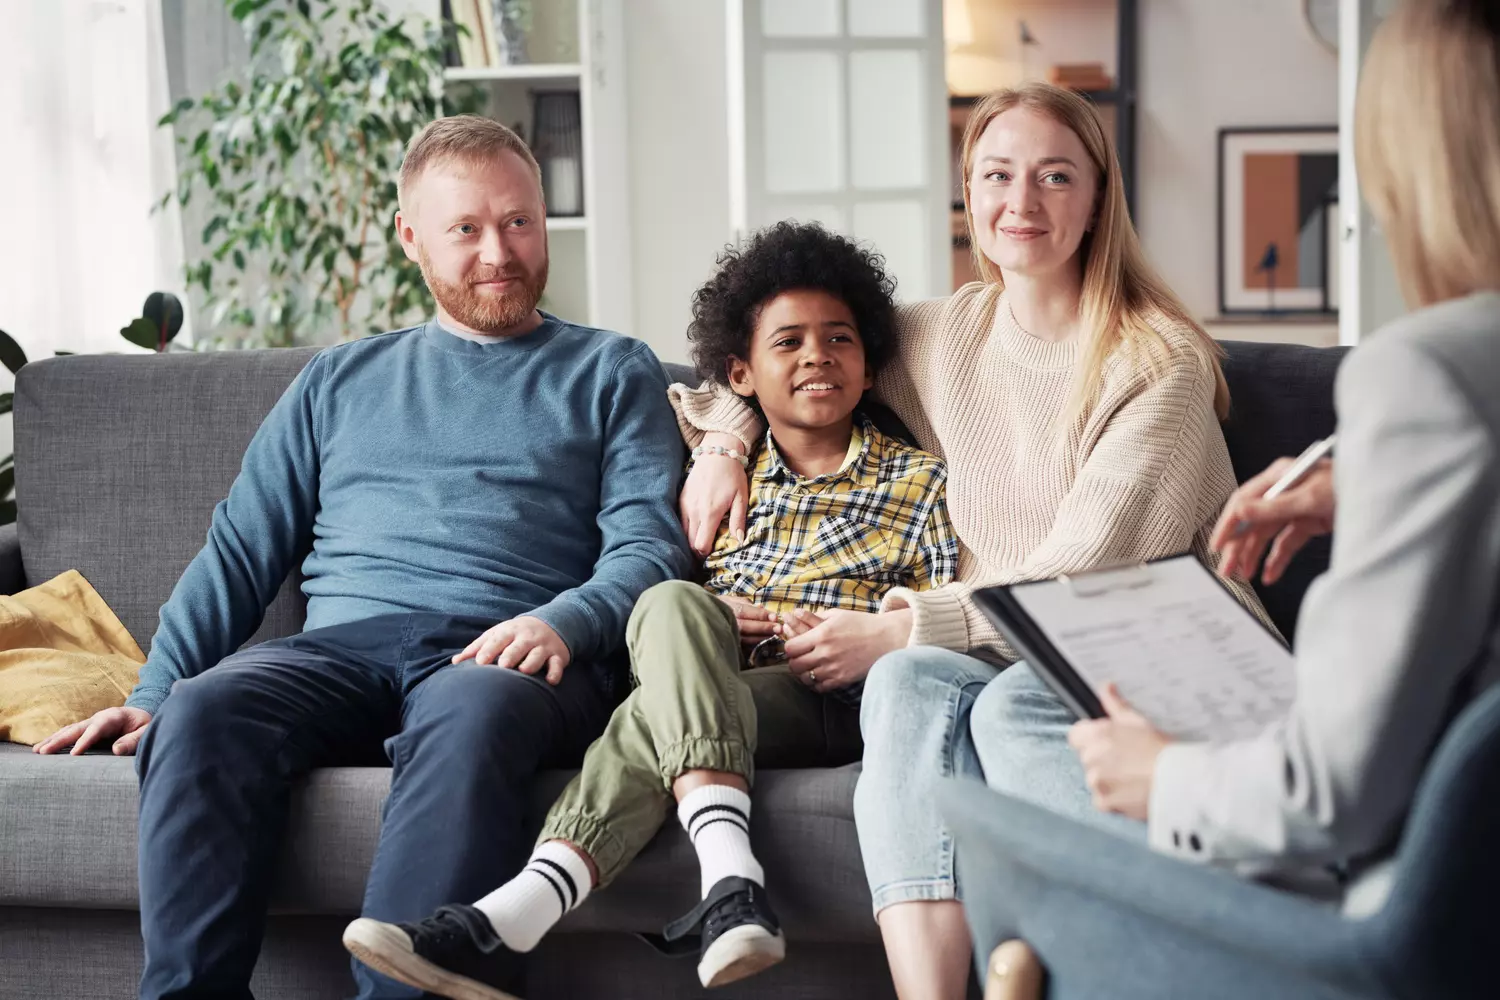
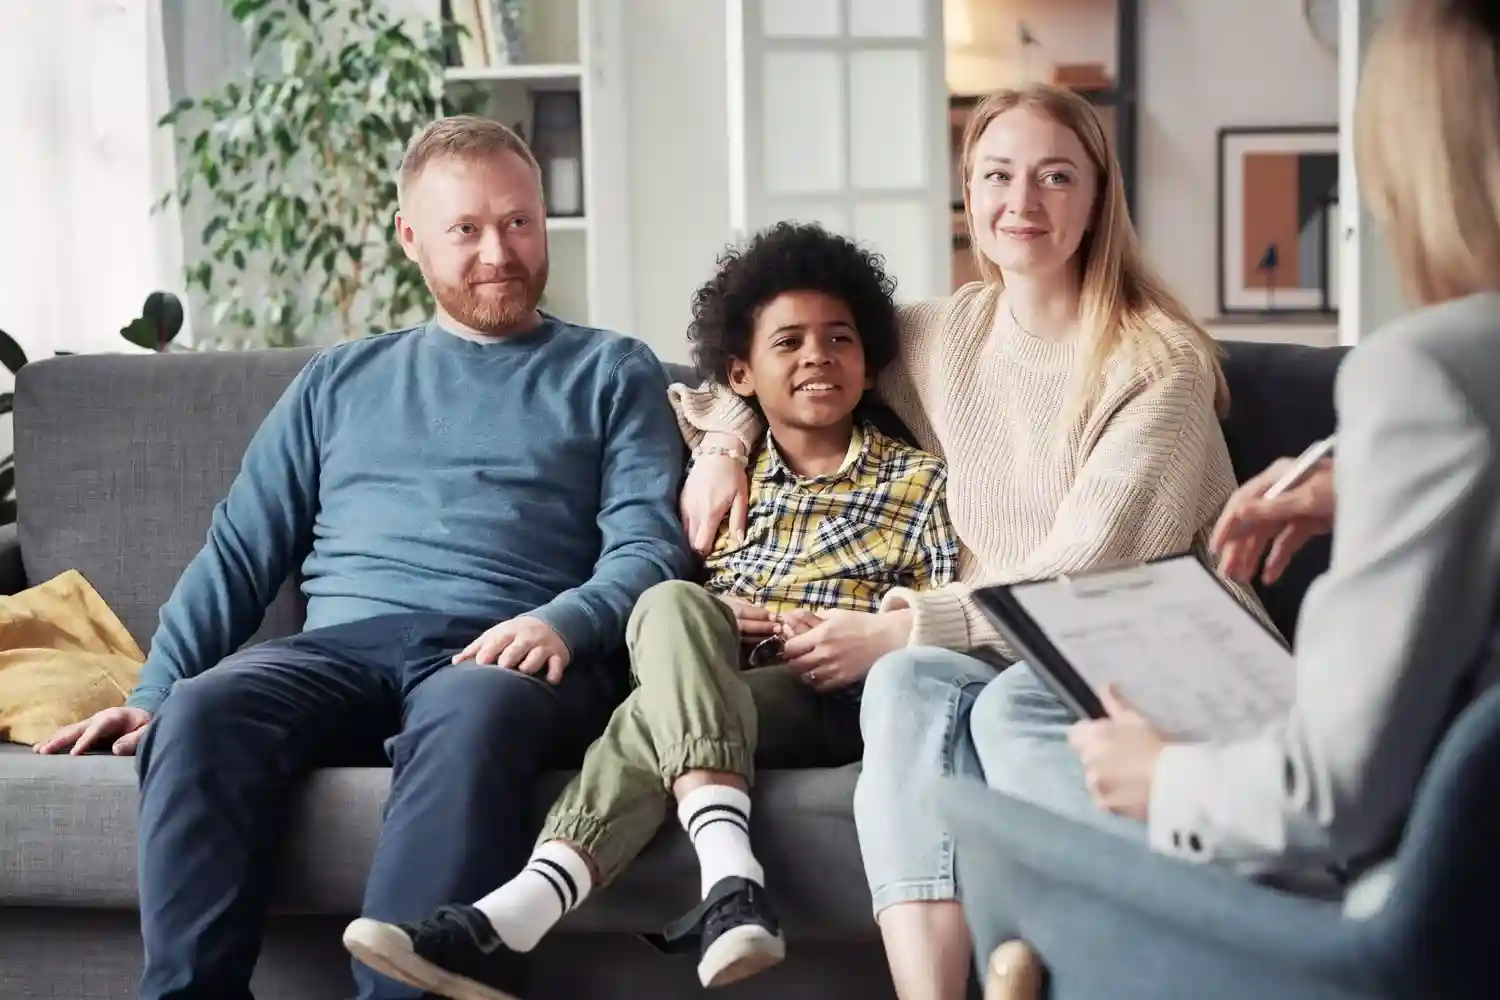
compress images

diff --git a/lib/app/views/familly/familly_list_view.dart b/lib/app/views/familly/familly_list_view.dart
@@ -18,7 +18,7 @@ class _FamillyListViewState extends State<FamillyListView> {
   Widget build(BuildContext context) {
     List<FamillyItem> famillyItem = [
       FamillyItem(
-        image: "assets/images/familly/familly_1.jpg",
+        image: "assets/images/familly/familly_1.webp",
         famillyName: "Alexandre",
         child: 2,
         action: () => {
@@ -31,7 +31,7 @@ class _FamillyListViewState extends State<FamillyListView> {
                     "id": 1,
                     "firstname": "Alexandre",
                     "lastname": "Dubois",
-                    "image": "assets/images/familly/familly_1.jpg",
+                    "image": "assets/images/familly/familly_1.webp",
                   }
                 ],
               ),
@@ -64,7 +64,7 @@ class _FamillyListViewState extends State<FamillyListView> {
               children: [
                 // --------------------- Image ---------------------
                 const MyBackgroundImage(
-                  source: "assets/images/familly/familly_3.jpg",
+                  source: "assets/images/familly/familly_3.webp",
                 ),
                 const SizedBox(
                   height: 15,

diff --git a/lib/app/views/gallery/gallery.dart b/lib/app/views/gallery/gallery.dart
@@ -14,7 +14,7 @@ class Gallery extends StatefulWidget {
 class _GalleryState extends State<Gallery> {
   List<GalleryItem> galleryItem = [
     const GalleryItem(
-      source: "assets/images/familly/familly_1.jpg",
+      source: "assets/images/familly/familly_1.webp",
       name: "Nom",
     ),
     const GalleryItem(
@@ -22,7 +22,7 @@ class _GalleryState extends State<Gallery> {
       name: "Nom",
     ),
     const GalleryItem(
-      source: "assets/images/familly/familly_3.jpg",
+      source: "assets/images/familly/familly_3.webp",
       name: "Nom",
     ),
   ];
@@ -125,7 +125,6 @@ class _GalleryItemState extends State<GalleryItem> {
                     ),
                   ),
                 ),
-
                 Padding(
                   padding: const EdgeInsets.only(
                     top: 10,

diff --git a/lib/widget/image/carousel.dart b/lib/widget/image/carousel.dart
@@ -16,7 +16,7 @@ class _MyCarouselState extends State<MyCarousel> {
   List imageList = [
     {
       "id": 1,
-      "image_path": "assets/images/familly/familly_1.jpg",
+      "image_path": "assets/images/familly/familly_1.webp",
     },
     {
       "id": 2,
@@ -24,7 +24,7 @@ class _MyCarouselState extends State<MyCarousel> {
     },
     {
       "id": 3,
-      "image_path": "assets/images/familly/familly_3.jpg",
+      "image_path": "assets/images/familly/familly_3.webp",
     },
   ];
 
